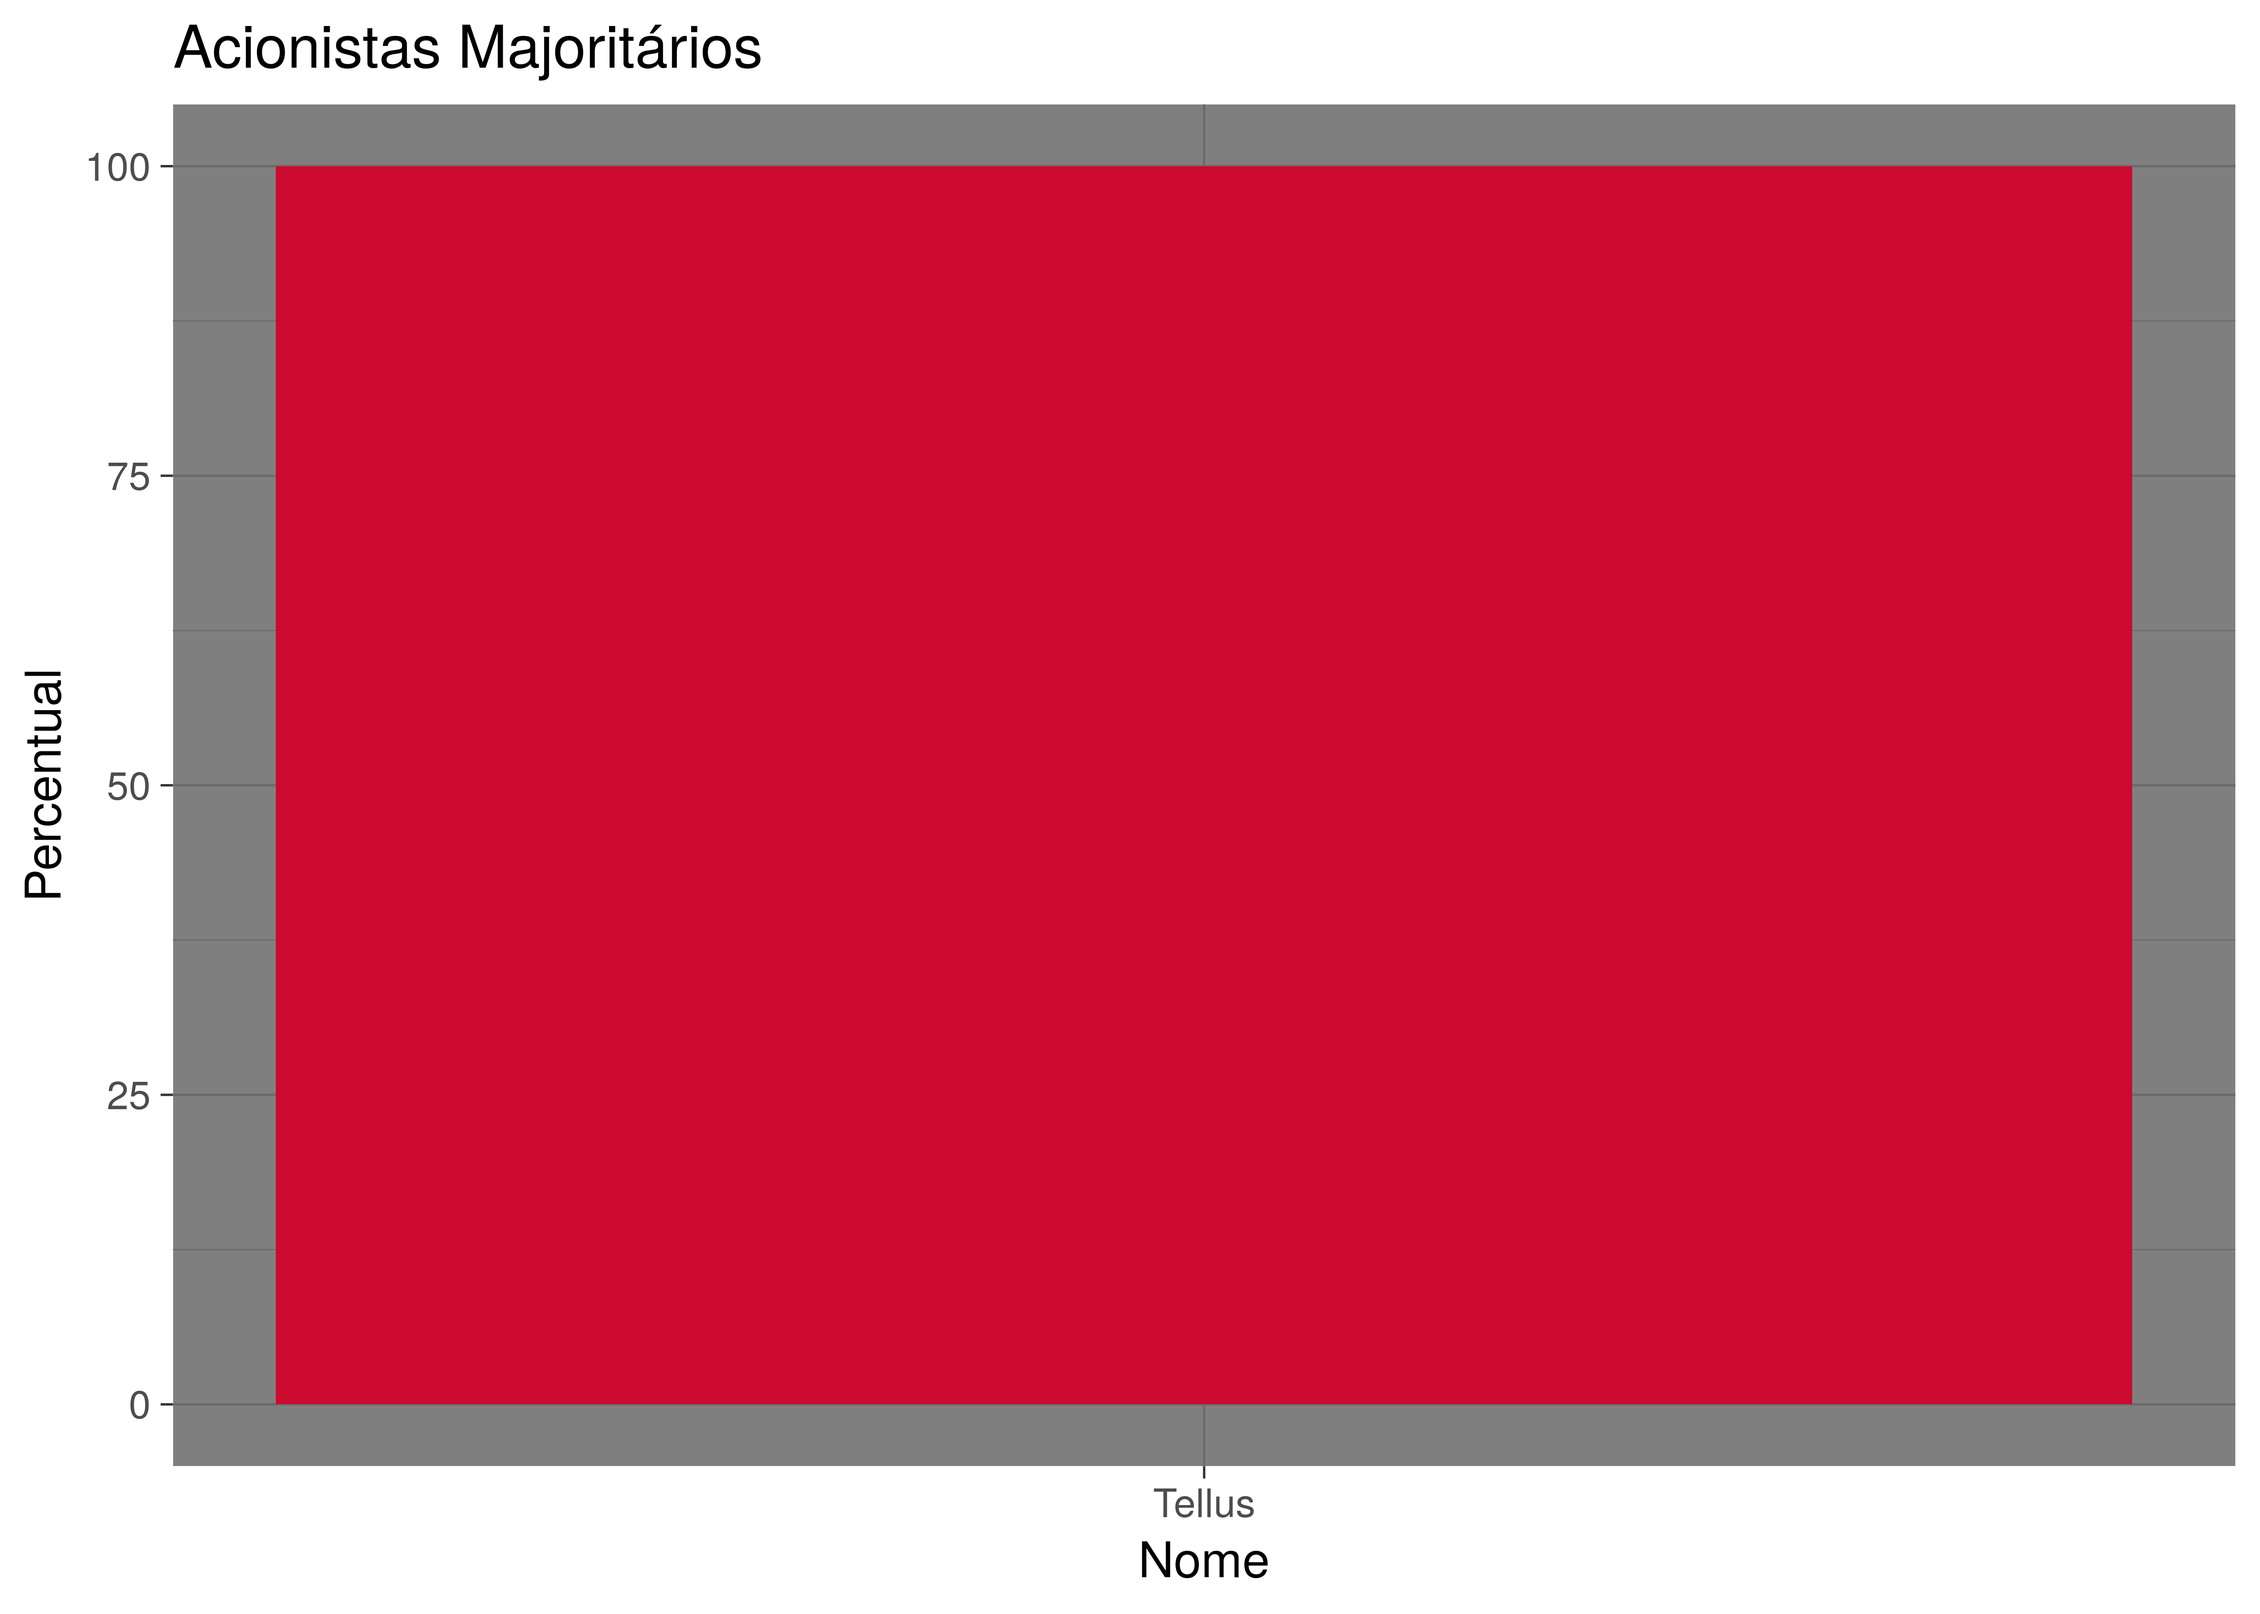
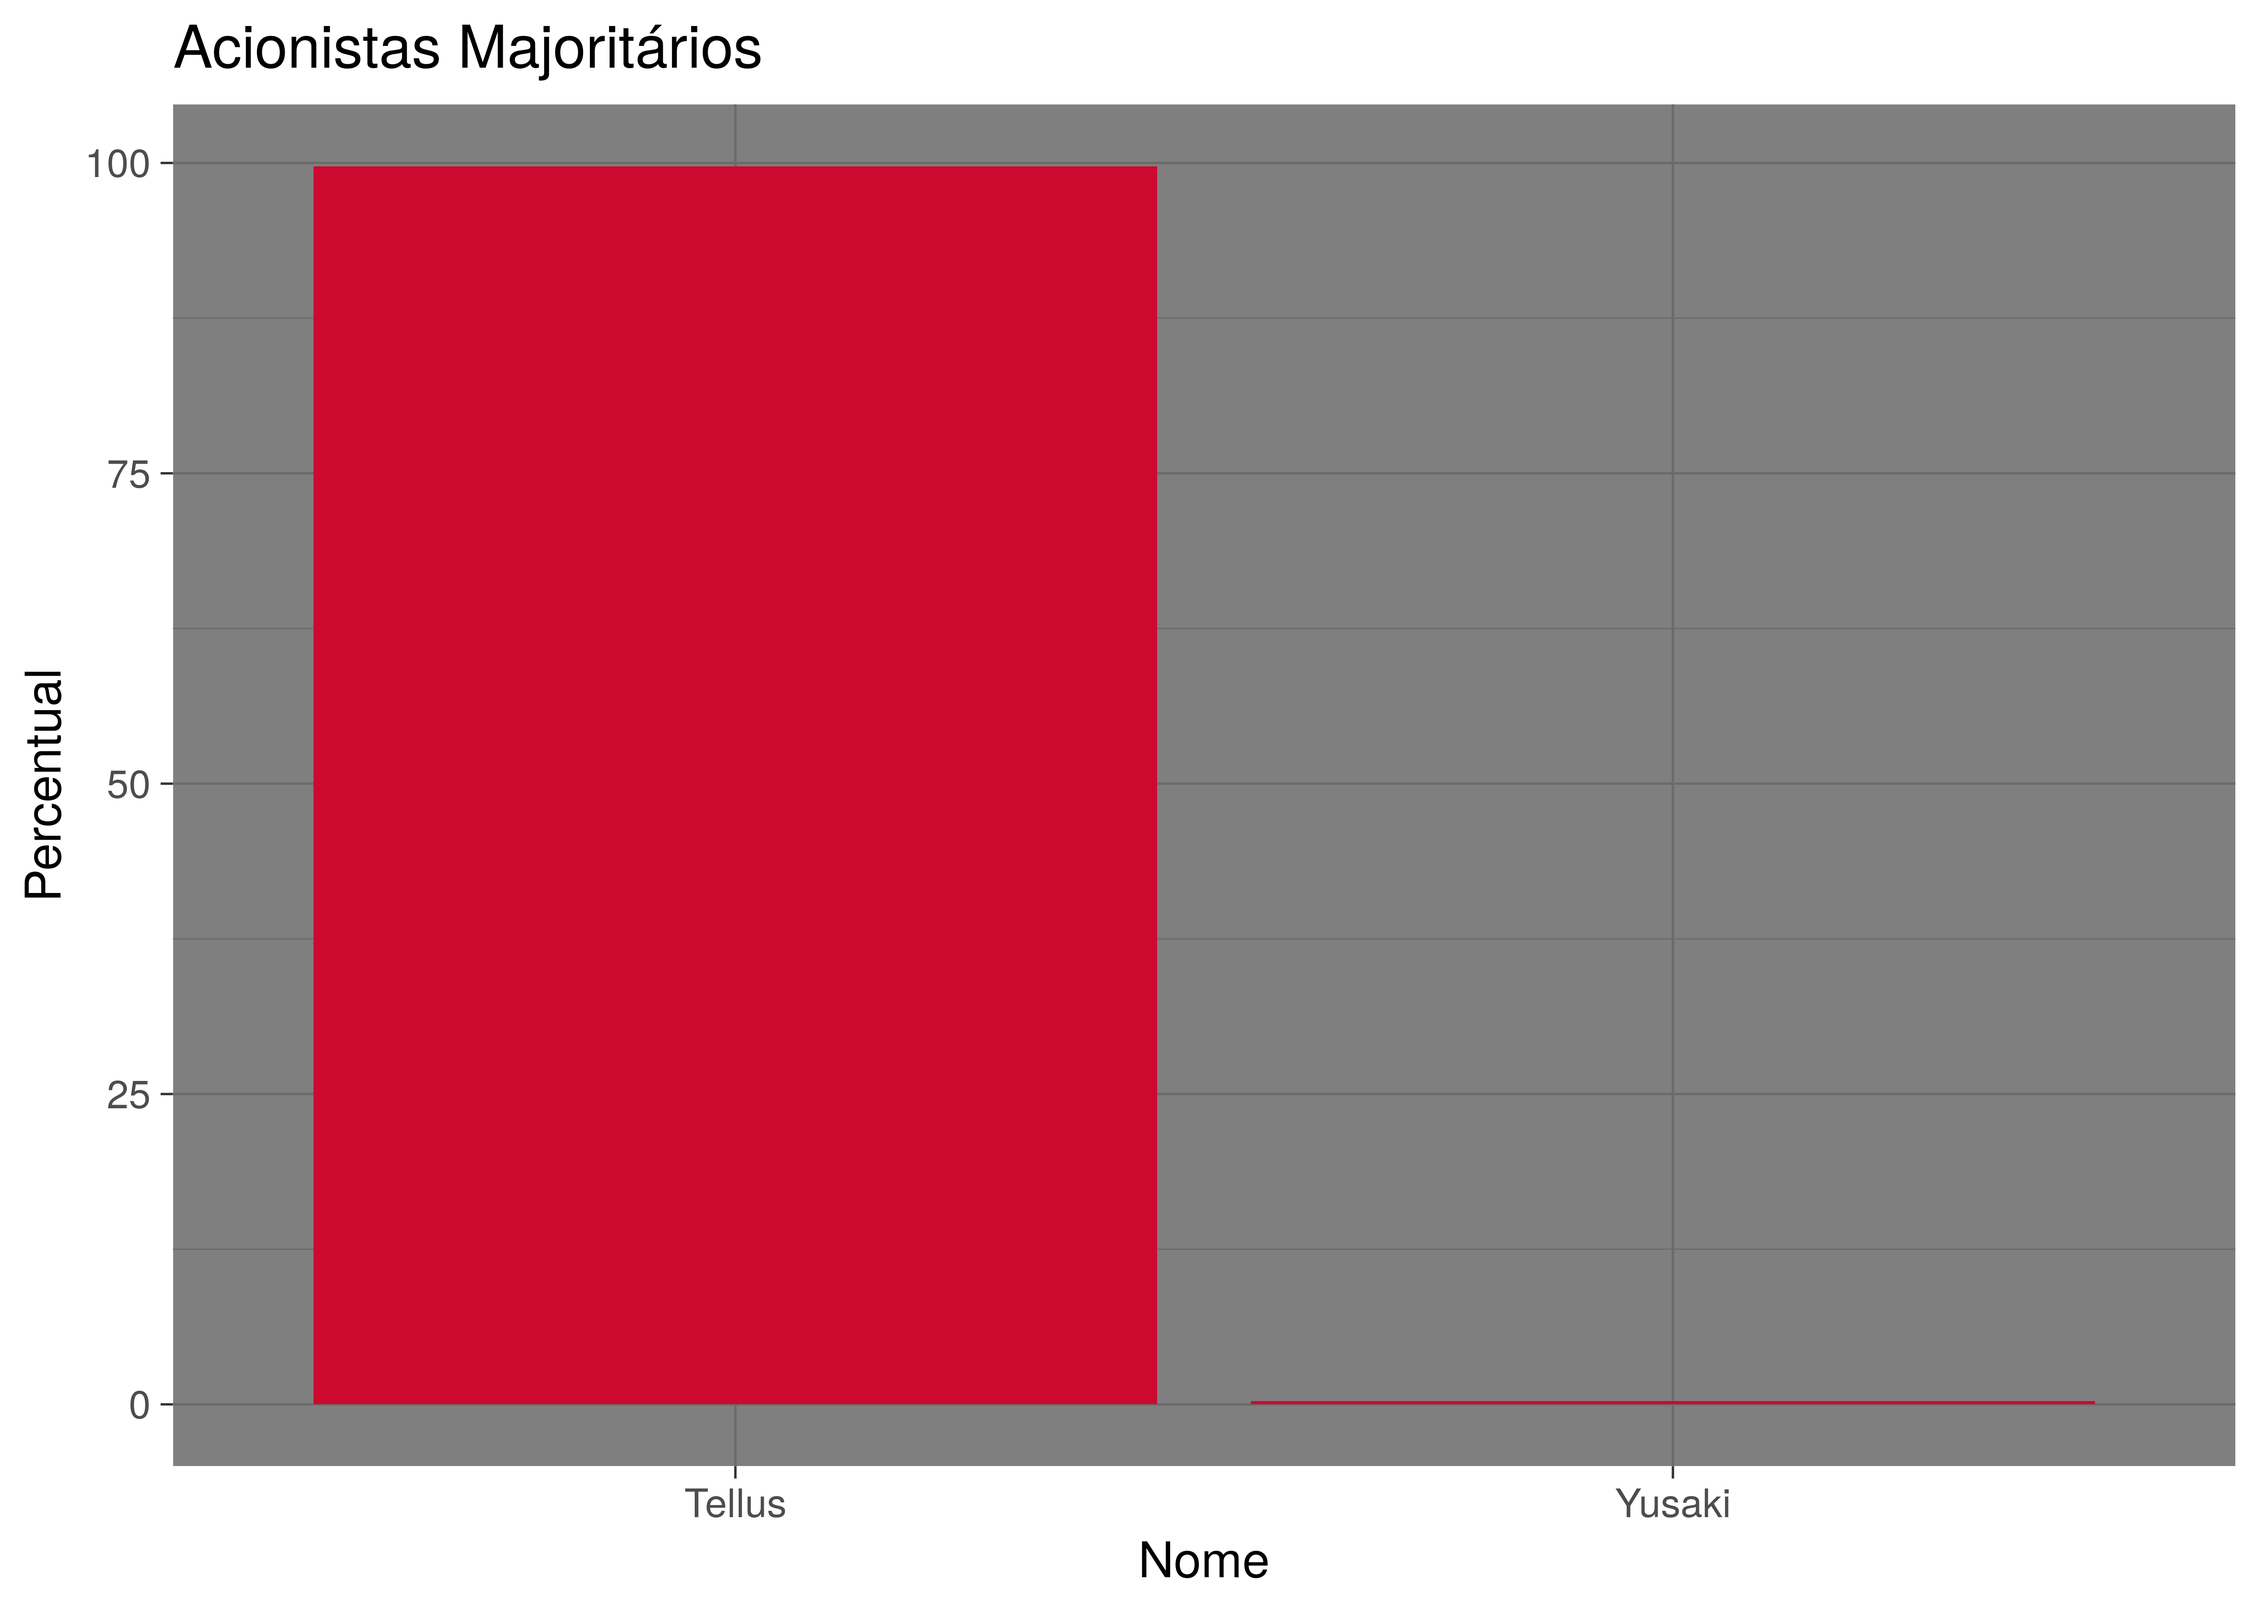
Atualiza lista de acionistas

diff --git a/post/estrutura_acionaria/index.html b/post/estrutura_acionaria/index.html
@@ -108,7 +108,8 @@ empenho que os mesmos possuem para solidificar a instituição no comércio de
 <p><img src="/img/acionistas.png" alt="" /></p>
 
 <ol>
-<li><strong>Tellus</strong>: 100% (10.000 unidades)</li>
+<li><strong>Tellus</strong>: 99,74% (10.000 unidades)</li>
+<li><strong>Yusaki</strong>: 0,26% (26 unidades)</li>
 </ol>
 
 <h1 id="valor-atual-da-ação">Valor atual da ação</h1>

diff --git a/content/post/estrutura_acionaria.md b/content/post/estrutura_acionaria.md
@@ -40,7 +40,8 @@ O sistema de ações do grupo *Evol bank* permite que todos possam fazer parte d
 
 ![](/img/acionistas.png)
 
-1. **Tellus**: 100% (10.000 unidades)
+1. **Tellus**: 99,74% (10.000 unidades)
+2. **Yusaki**: 0,26% (26 unidades)
 
 # Valor atual da ação
 
